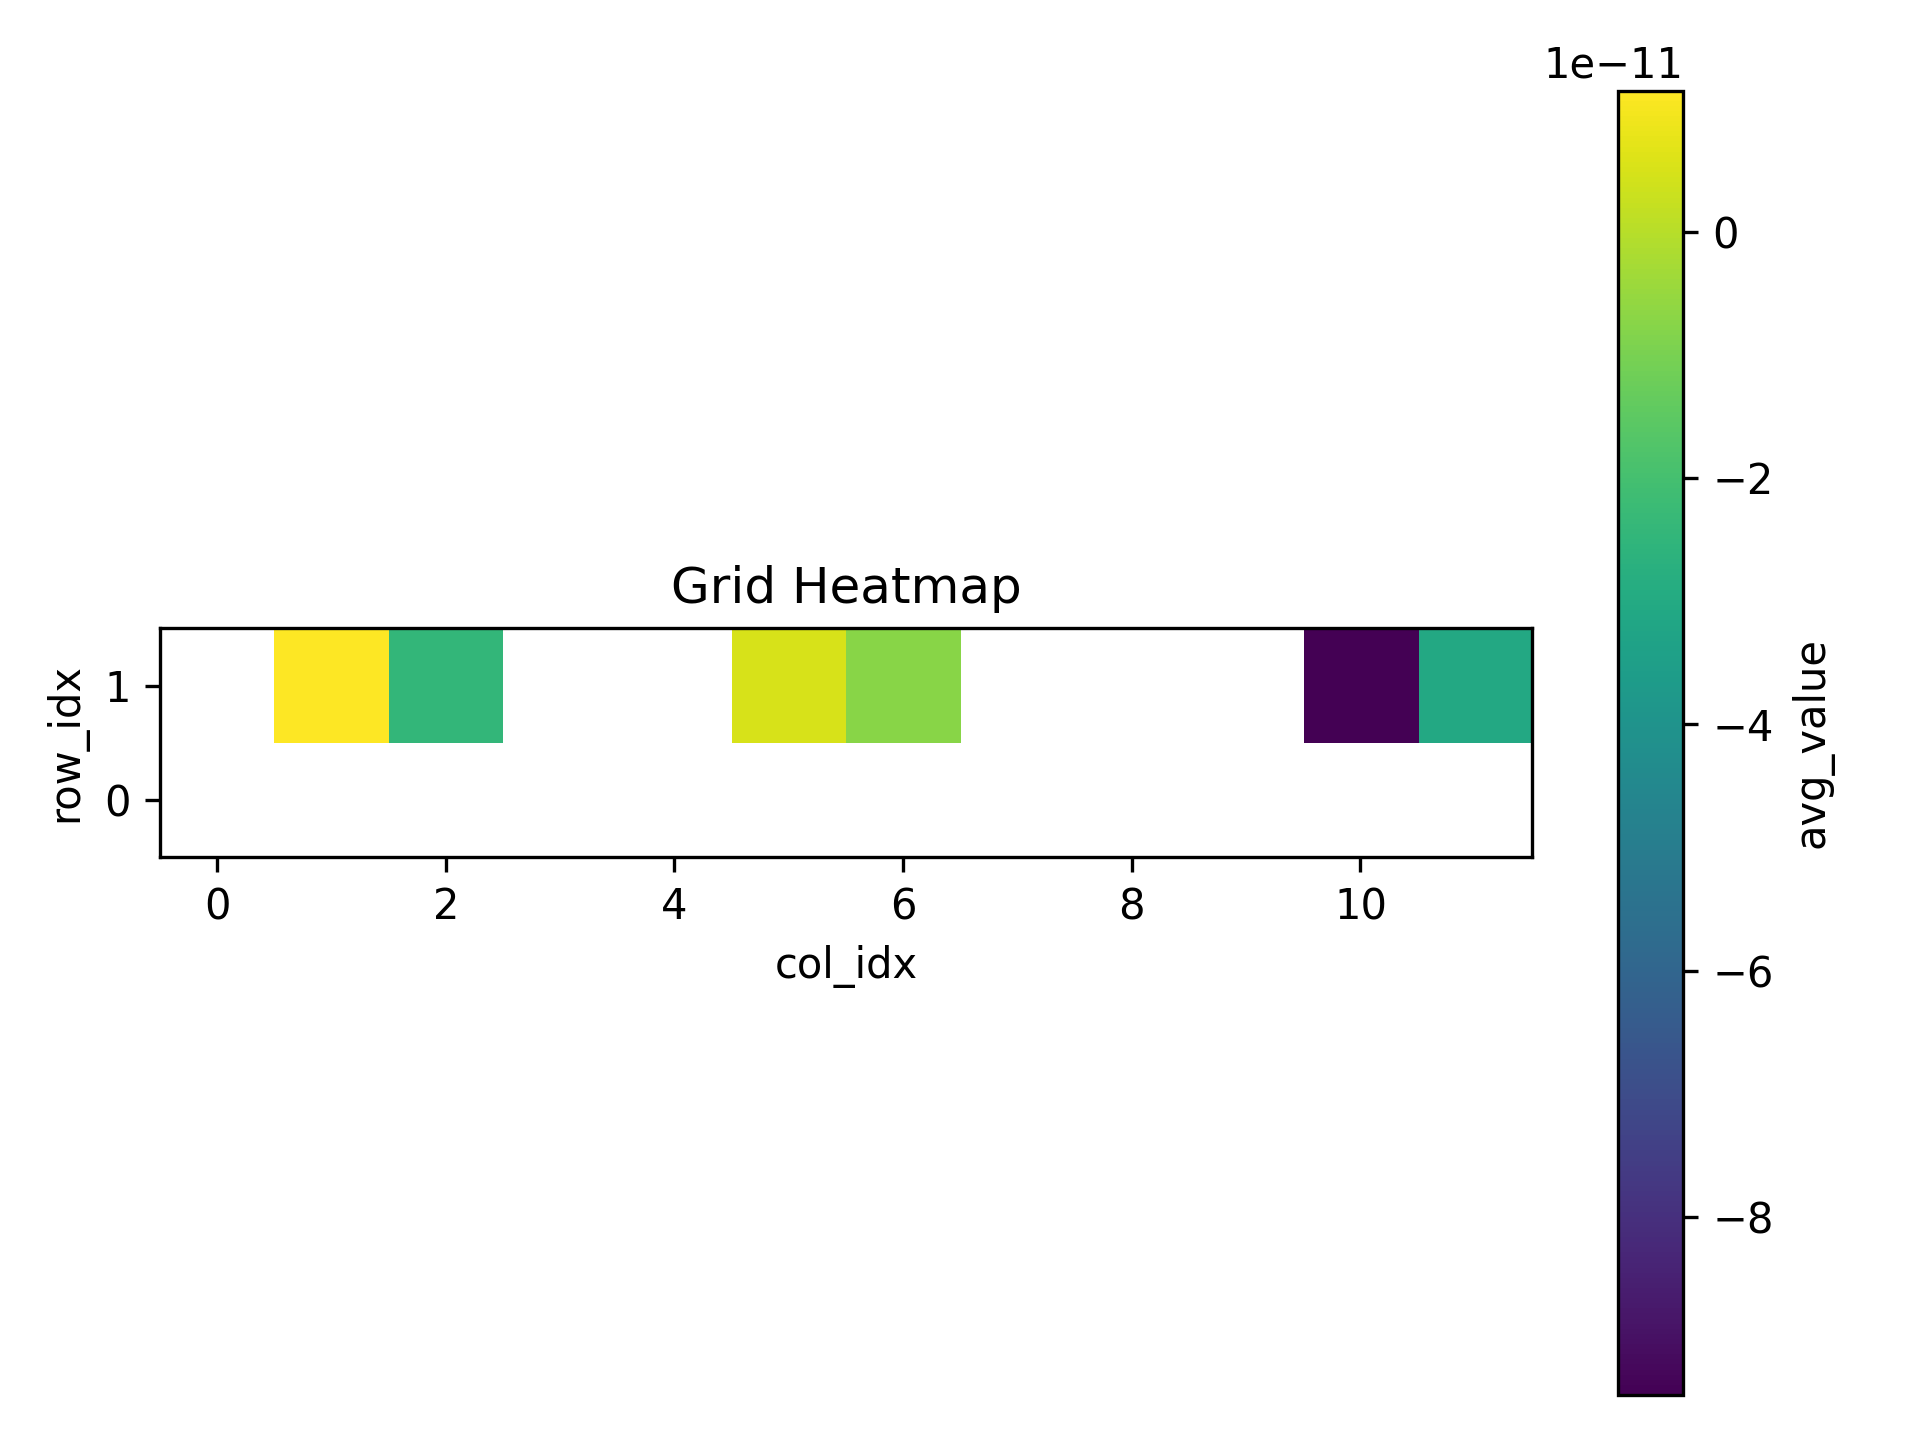
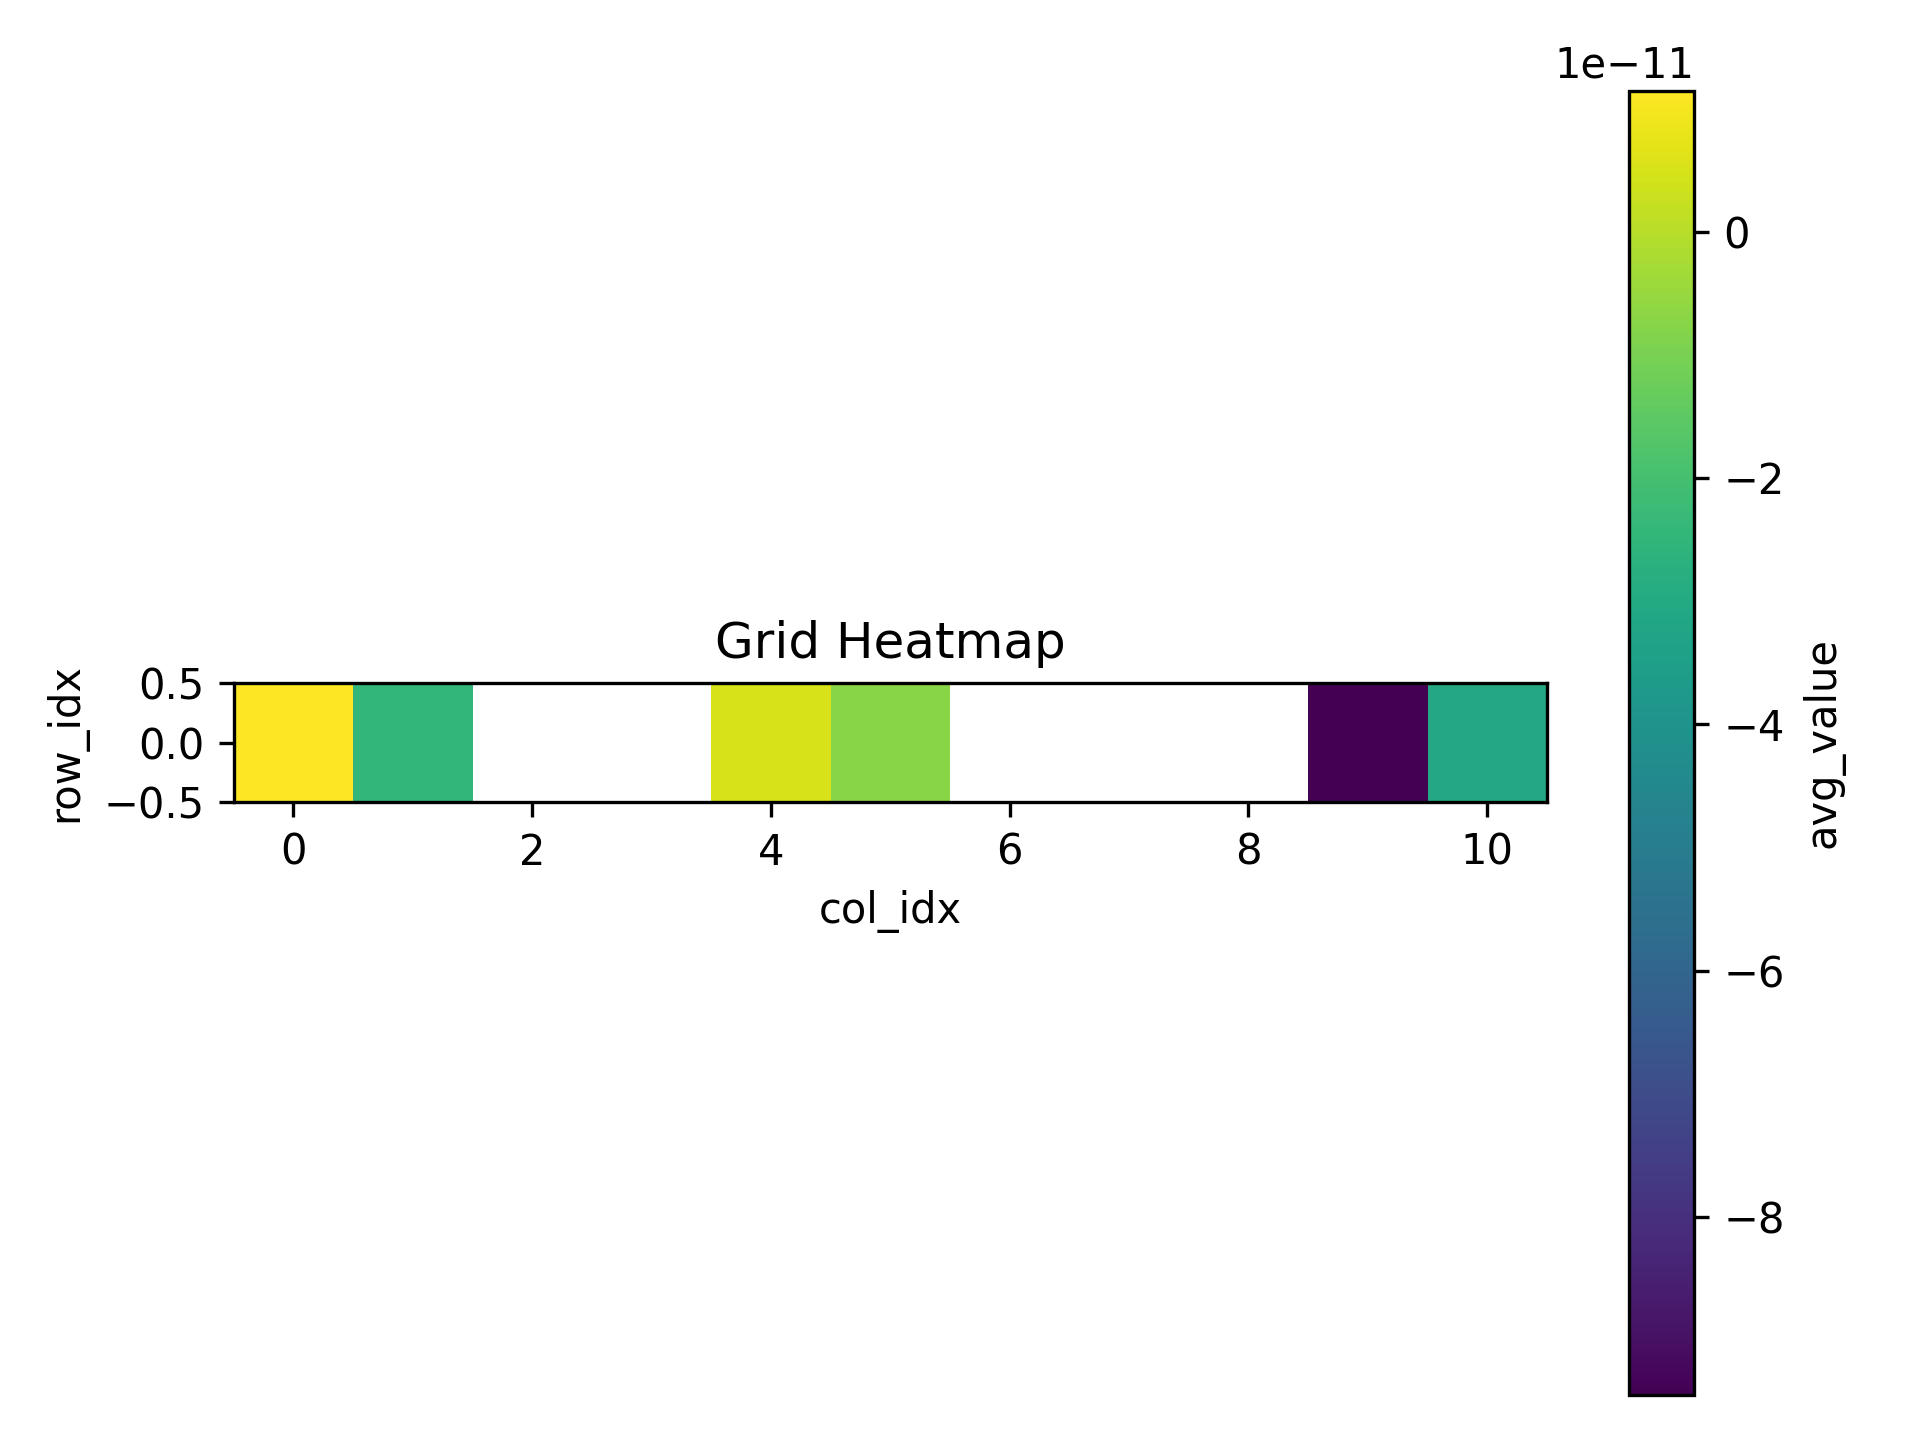
Add grid index_base config for zero-based grid indices
Introduces the `index_base` option to grid config in YAML and manifest files, allowing explicit conversion from 1-based indices in filenames (e.g., RC001001) to zero-based indices stored in outputs. Updates documentation to describe this option, modifies the grid index derivation logic in run_pygwy_job.py to use `index_base`, and updates output CSV and manifest accordingly.

Changed region(s): [[0.0625, 0.375, 0.8125, 0.6875], [0.8125, 0.0312, 0.9688, 0.9688]]

diff --git a/scripts/run_pygwy_job.py b/scripts/run_pygwy_job.py
@@ -21,6 +21,7 @@ import re
 import sys
 
 _GRID_REGEX_MISS_WARNED = set()
+_GRID_INDEX_BASE_WARNED = False
 
 def load_manifest(path):
     with open(path, "r") as f:
@@ -275,6 +276,7 @@ def derive_grid_indices(path, grid_cfg):
     }
     """
     global _GRID_REGEX_MISS_WARNED
+    global _GRID_INDEX_BASE_WARNED
     pattern = None
     if grid_cfg:
         pattern = grid_cfg.get("filename_regex")
@@ -288,6 +290,30 @@ def derive_grid_indices(path, grid_cfg):
             col = m.groupdict().get("col")
             row_val = int(row) if row is not None else None
             col_val = int(col) if col is not None else None
+
+            # Spec expects grid indices to be zero-based.
+            # Filenames are commonly 1-based (e.g. RC001001). Allow explicit config,
+            # and warn if we have to assume the base.
+            index_base = None
+            if grid_cfg:
+                index_base = grid_cfg.get("index_base", None)
+            if index_base is None:
+                index_base = 1
+                if not _GRID_INDEX_BASE_WARNED:
+                    sys.stderr.write(
+                        "WARN: grid.index_base not set; assuming filenames are 1-based and converting to zero-based indices. "
+                        "Set grid.index_base explicitly (0 or 1) to silence this.\n"
+                    )
+                    _GRID_INDEX_BASE_WARNED = True
+            try:
+                index_base = int(index_base)
+            except Exception:
+                index_base = 1
+
+            if row_val is not None:
+                row_val = row_val - index_base
+            if col_val is not None:
+                col_val = col_val - index_base
             return row_val, col_val
         if pattern not in _GRID_REGEX_MISS_WARNED:
             sys.stderr.write(

diff --git a/docs/USER_GUIDE.md b/docs/USER_GUIDE.md
@@ -33,7 +33,7 @@ Top-level sections (see `config.example.yaml`):
   - `plane_level`, `median_size`, `line_level_x`, `line_level_y`, `clip_percentiles` (optional post-processing).
   - `metric_type`, `units`, `expected_units`, `on_unit_mismatch` (`error|warn|skip_row`).
   - `threshold` (particle mode), other mode-specific params.
-- `grid`: filename regex with named groups `row`/`col` to add grid indices.
+- `grid`: filename regex with named groups `row`/`col` to add grid indices. Optional `index_base: 1` converts SmartScan-style `RC001001` to zero-based indices stored in the CSV.
 - `summarize`: `recursive: false|true` to control recursive search for TIFFs.
 - `csv_modes`: column layout and mapping from ModeResultRecord keys.
 - `result_schemas`: casting rules from CSV columns to typed fields for plotting.

diff --git a/docs/config.md b/docs/config.md
@@ -8,7 +8,7 @@ See `config.example.yaml` for a concrete example.
   - `channel_family`, `plane_level`, `median_size`, `line_level_x`, `line_level_y`, `clip_percentiles`
   - `metric_type`, `units`, `expected_units`, `on_unit_mismatch`
   - mode-specific (e.g., `threshold` for particle mode)
-- `grid`: `filename_regex` with named groups `row`/`col` to set grid indices.
+- `grid`: `filename_regex` with named groups `row`/`col` to set grid indices. Optional `index_base` (0 or 1) converts filename indices to zero-based values stored in `grid.row_idx`/`grid.col_idx`.
 - `summarize`: `recursive` flag for TIFF search.
 - `csv_modes`: column layout mapping keys (e.g., `core.avg_value`, `grid.row_idx`) to CSV columns.
 - `result_schemas`: casting CSV columns to typed fields for plotting/analysis.
